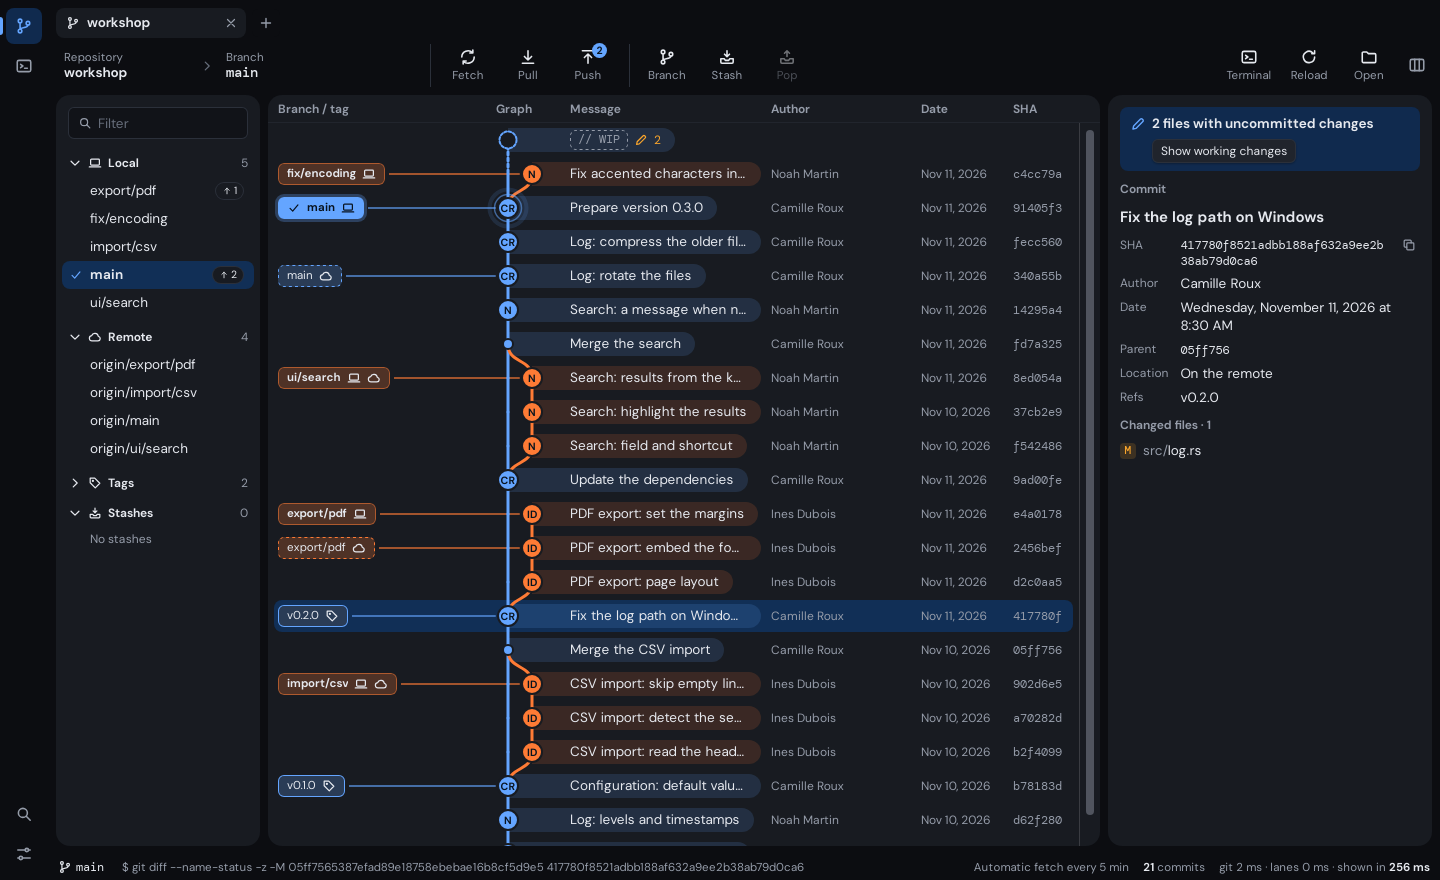
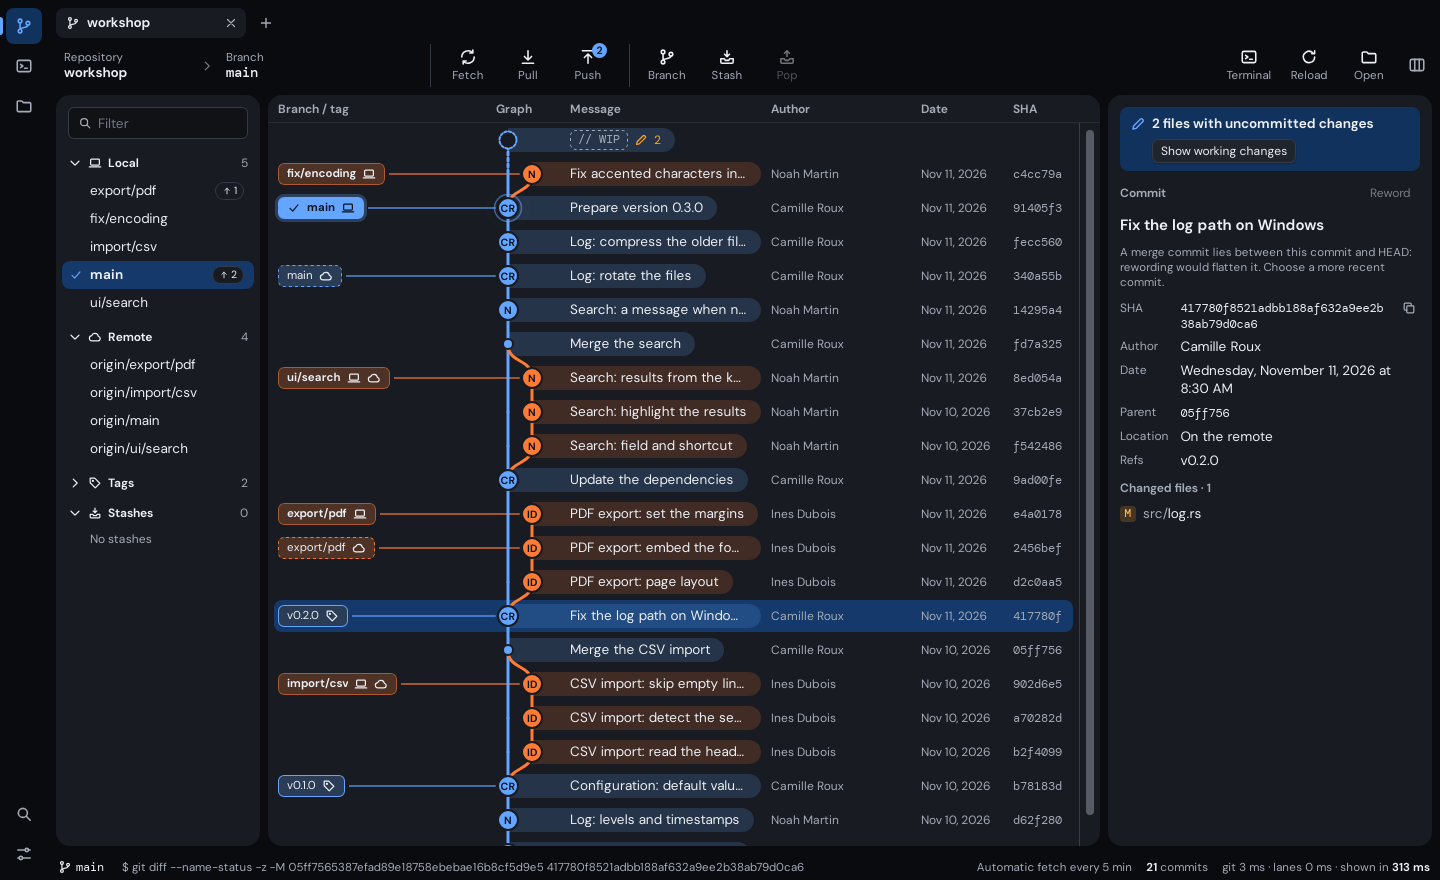
Colors: follow the design review
- The state letter is halfway between its color and --ink: it keeps 4.5:1 on
  its tint over a row at rest, hovered or selected, now checked on all three.
- The notification icon is checked over --raised, where it sits.
- No theme block may redefine a strength of tint.
- The hunk header leaves --sel for --accent-soft: it is not a selection.
- The graph preview of the settings and the canvas band read --tint-veil.
- 9.4 describes the current branch in both renderings.

Claude-Session: https://claude.ai/code/session_01Jie7WUbtr1YTCQH6uFfmAd

Changed region(s): [[0.7812, 0.2148, 0.9688, 0.5216], [0.6875, 0.9818, 1.0, 1.0], [0.7812, 0.5523, 0.8438, 0.6136]]

diff --git a/src/lib/git/FileList.svelte b/src/lib/git/FileList.svelte
@@ -125,8 +125,9 @@
     font-size: var(--fs-micro);
     font-weight: var(--fw-strong);
     font-family: var(--f-mono);
-    /* The letter moves 20% toward --ink, so that it reads on its stronger tint (guidelines, 2.7). */
-    color: color-mix(in srgb, var(--c) 80%, var(--ink));
+    /* The letter is halfway between its color and --ink, so that it reads on its tint on a row at
+       rest, hovered or selected (guidelines, 2.7). */
+    color: color-mix(in srgb, var(--c) 50%, var(--ink));
     background: color-mix(in srgb, var(--c) var(--tint-letter), transparent);
     --c: var(--warn);
   }

diff --git a/src/lib/git/Graph.svelte b/src/lib/git/Graph.svelte
@@ -154,7 +154,7 @@
     // Ribbon: a band of the color of the branch leaves the commit and runs to its message.
     if (ribbon) {
       // The same strength as the capsule that goes on in the message column (guidelines, 2.7).
-      ctx.globalAlpha = (parseFloat(css.getPropertyValue('--tint-veil')) || 15) / 100;
+      ctx.globalAlpha = parseFloat(css.getPropertyValue('--tint-veil')) / 100;
       for (let i = winStart; i < winEnd; i++) {
         const commit = commits[i];
         const cx = commit.lane < shownLanes ? x(commit.lane) : width - pad;

diff --git a/src/lib/settings/GraphPreview.svelte b/src/lib/settings/GraphPreview.svelte
@@ -55,10 +55,10 @@
     fill: var(--l1);
   }
   .band.c0 {
-    fill: color-mix(in srgb, var(--l0) 15%, transparent);
+    fill: color-mix(in srgb, var(--l0) var(--tint-veil), transparent);
   }
   .band.c1 {
-    fill: color-mix(in srgb, var(--l1) 15%, transparent);
+    fill: color-mix(in srgb, var(--l1) var(--tint-veil), transparent);
   }
   .text {
     stroke: var(--line);

diff --git a/src/lib/git/DiffView.svelte b/src/lib/git/DiffView.svelte
@@ -584,7 +584,7 @@
     color: var(--bad);
   }
   .t-hunk {
-    background: var(--sel);
+    background: var(--accent-soft);
     color: var(--muted);
   }
   .t-meta {

diff --git a/docs/design-guidelines.md b/docs/design-guidelines.md
@@ -173,8 +173,9 @@ Every theme must meet them, in light and in dark.
 | `--ink` on `--panel`, `--bg`, `--sel`, `--hover`, `--hover-side` | 7:1 |
 | `--ink` in a message capsule or a branch label, at rest and on hover | 7:1 |
 | `--ink` on a line of a diff, added or removed, at rest, hovered to be picked and picked (9.14) | 7:1 |
-| The letter of a file state on its tint (9.6) | 4.5:1 |
-| The icon of a notification, and the initials of a commit, on their tint | 3:1 |
+| The letter of a file state on its tint, on a row at rest, hovered or selected (9.6) | 4.5:1 |
+| The icon of a notification on its tint (9.11), and the initials of an author in "Classic" on theirs (10.3) | 3:1 |
+| `--muted` on `--accent-soft` (the header of a hunk, 9.14) | 4.5:1 |
 | `--ink` on `--accent-soft`, `--ok-soft`, `--warn-soft`, `--bad-soft` | 7:1 |
 | `--muted` on `--panel`, `--side`, `--sel`, `--raised`, `--hover`, `--hover-side`, `--warn-soft` | 4.5:1 |
 | `--on-accent` on `--accent`, `--bad` and each branch color, at rest and on hover | 4.5:1 |
@@ -295,8 +296,8 @@ not change them: they hold for the four, which `npm run check` checks.
 | `--tint-veil` | The capsule of a message and the band that links it to its commit (10.2) | 24% | 18% |
 | `--tint-label` | A branch or tag label at rest, "Ribbon" rendering (9.4) | 34% | 24% |
 | `--tint-label-soft` | A label at rest, "Classic" rendering | 24% | 18% |
-| `--tint-label-hover` | A hovered label, the current branch in "Classic", the ring of the current branch | 40% | 28% |
-| `--tint-letter` | The letter of a file state (9.6), the icon of a notification (9.11), the initials of a commit | 24% | 20% |
+| `--tint-label-hover` | A hovered label; the current branch in "Classic"; the ring around the current branch in "Ribbon" | 40% | 28% |
+| `--tint-letter` | The letter of a file state (9.6), the icon of a notification (9.11), the initials of an author in "Classic" (10.3) | 24% | 20% |
 | `--tint-added` | An added line of a diff (9.14) | 22% | 20% |
 | `--tint-removed` | A removed line of a diff | 20% | 20% |
 | `--tint-line-hover` | What a line of a diff hovered to be picked adds to its tint | 10% | 7% |
@@ -305,7 +306,8 @@ not change them: they hold for the four, which `npm run check` checks.
 - The steps of a line are shorter in dark: the picked line keeps `--ink` at 7:1, and the line at
   rest can be as strong as in light. A line, hovered or picked, stays apart from the one before
   (2.4 and `npm run check`).
-- The letter of a file state moves 20% toward `--ink`, so that it reads on its stronger tint.
+- The letter of a file state is halfway between its color and `--ink`: its tint lets the row show
+  through, and the letter reads on it at rest, hovered and selected.
 
 ## 3. Typography
 
@@ -721,7 +723,7 @@ buttons.
 | Type | Rendering |
 |---|---|
 | Local branch | Background: `--tint-label` of the branch color over `--panel`, `--tint-label-soft` in "Classic" (2.7). Border: the same color at 55%. `--ink` text, weight 650. "Computer" icon. |
-| Current branch | Solid background in the branch color, surrounded by a ring of the same color. `--on-accent` text, weight 650, preceded by a check mark. |
+| Current branch | "Ribbon": solid background in the branch color, surrounded by a 3 px ring of the same color at `--tint-label-hover`, `--on-accent` text. "Classic": the background of a hovered label, `--tint-label-hover` of the branch color, `--ink` text. Weight 650, preceded by a check mark. |
 | Remote branch | The same background as a local branch. Dashed border in the branch color, weight 400. "Cloud" icon. |
 | Tag | The same background as a local branch. Solid border in the branch color, weight 400. "Tag" icon. |
 
@@ -800,8 +802,9 @@ Sidebar, file lists, graph, palette results, lists inside a dialog.
   repositories of the start page.
 - The state of a file is a letter on a tinted background, never a color alone: M modified, A
   added, D deleted, R renamed, C copied, T type changed, U untracked, "!" in conflict. The tint
-  is `--tint-letter` of the color of the state; the letter is that color moved 20% toward
-  `--ink`, so that it reads on the tint (2.7).
+  is `--tint-letter` of the color of the state, over the row; the letter is halfway between that
+  color and `--ink`, so that it reads on the tint whether the row is at rest, hovered or selected
+  (2.7).
 - A file that is only partly staged carries the word "partly" after its name, in `--muted`
   at 11.5 px, in both lists.
 - **A list inside a dialog** (the keys of "Manage keys…", the commits of an interactive
@@ -975,6 +978,8 @@ Sidebar, file lists, graph, palette results, lists inside a dialog.
 - Added line: a background at `--tint-added` of `--ok`, a "+" sign in `--ok`. Removed line: a
   background at `--tint-removed` of `--bad`, a "−" sign in `--bad` (2.7).
 - The sign is always there: color alone never says whether a line is added or removed.
+- The header of a hunk, `@@ -1,3 +1,6 @@`, sits on `--accent-soft`, in `--muted`: it is not a
+  selection, and does not take its color.
 - A line picked to be staged on its own has a stronger tint, `--tint-line-pick` more, and its
   sign in bold; a line hovered to be picked takes `--tint-line-hover` more (2.7). No colored
   bar on its edge.
